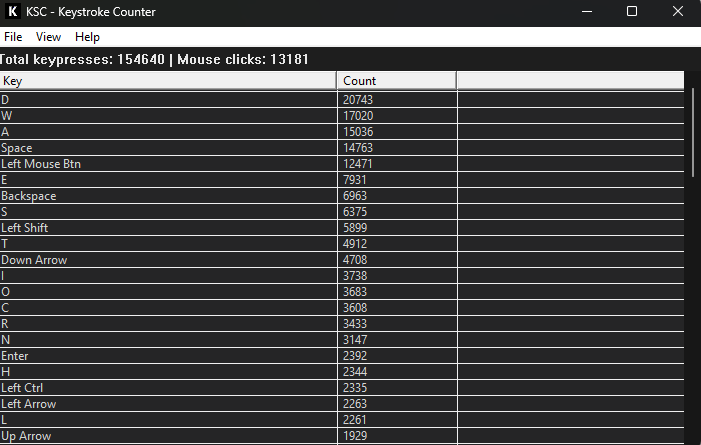
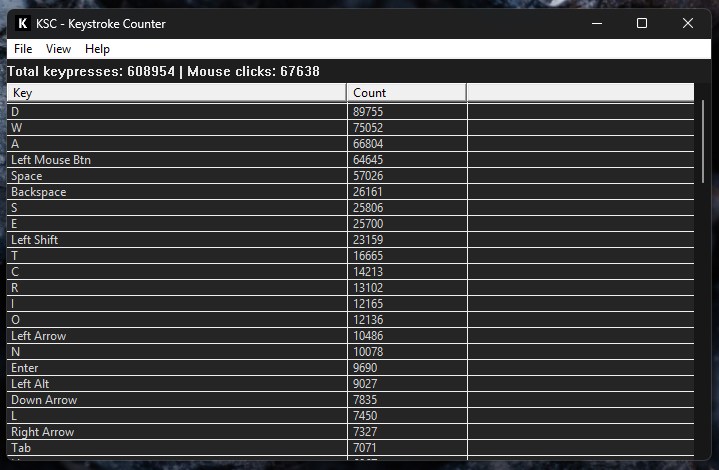
update screenshots + readme

diff --git a/README.md b/README.md
@@ -1,61 +1,71 @@
 # ⌨ ksc — Keystroke Counter
 
-**v1.1** — Lightweight Windows desktop app (~6.5k LOC) in modern C that counts keystrokes, tracks per-app usage, simulates keyboard input, syncs encrypted backups to Google Drive and SSH, and sends Telegram notifications.
+**v1.1** — A lightweight Windows desktop app in modern C (~6.5k LOC) that tracks every keystroke, maps keyboard heatmaps, simulates input, records to a keylogger, and syncs encrypted backups to Google Drive and SSH with Telegram notifications.
+
+<p align="center">
+  <img src="screenshots/main-window-dark.png" width="400" alt="Main Window Dark">
+  <img src="screenshots/main-window-light.png" width="400" alt="Main Window Light">
+</p>
+
+---
 
 ## 📸 Screenshots
 
 | 🌙 Dark Mode | |
 |---|---|
-| ![Main Window](screenshots/main-window-dark.png) | ![Cloud Backup](screenshots/cloud-backup-window-dark.png) |
-| ![Stats Window](screenshots/stats-window-dark.png) | ![Heatmap](screenshots/hetmap-window-dark.png) |
-| ![Mouse Clicker](screenshots/mouse-clicker-window-dark.png) | |
+| ![Heatmap](screenshots/keyboard-heatmap-dark.png) | ![Keyboard Sim](screenshots/keyboard-sim-dark.png) |
+| ![Mouse Clicker](screenshots/mouse-clicker-dark.png) | ![Stats](screenshots/stats-window-dark.png) |
+| ![Cloud & SSH Backup](screenshots/cloud-ssh-backup-dark.png) | |
 
-| ☀ Light Mode | |
-|---|---|
-| ![Mouse Clicker Light](screenshots/mouse-clicker-window-light.png) | ![Cloud Backup Light](screenshots/cloud-backup-window-light.png) |
+---
 
 ## ✨ Features
 
-### 📊 Core
-- **Keystroke & mouse tracking** — Low-level keyboard + mouse hooks capture every keypress and left/right click system-wide
-- **Per‑app tracking** — Records which app received each keypress via foreground window title
-- **Live totals** — Keyboard keypresses vs mouse clicks, separated and auto-updating
-- **Batch writes** — Ring buffer + writer threads flush DB in transactions
+### ⌨ Core Tracking
+- **Keystroke & mouse counting** — Low-level hooks (`WH_KEYBOARD_LL` + `WH_MOUSE_LL`) capture every keypress and left/right click system‑wide
+- **Per‑app tracking** — Records which foreground window received each event
+- **Live totals** — Keyboard keypresses vs mouse clicks, separated and auto‑updating
+- **Batch writes** — Ring buffer + writer threads flush in `BEGIN/COMMIT` transactions per ~100ms
 
 ### 🪟 Windows & Views
-- **Heatmap** — Full QWERTY layout + numpad + arrows colored by usage frequency (blue → red), tooltips on hover, app filter
-- **Statistics** — Date range pickers, app filter, keyboard/mouse totals, CSV export
-- **Keylogger** — Timestamped per‑key recording to a separate database; own viewer window
-- **Mouse clicker** — Min/sec/ms interval, random offset, left/right button, continuous/limited, system‑wide hotkeys
-- **Keyboard simulator** — Record key combos, replay with configurable interval, system‑wide start/stop hotkeys
-
-### 🔔 Notifications
-- **Telegram** — Bot token + group chat ID; sends sync status on success or failure only
-- **Test button** in settings for end‑to‑end verification
-
-### 🎨 UI
-- **Dark mode** — Full dark theme (title bar, scrollbar, menus, all child windows)
-- **System tray** — Minimize to tray; right‑click for show/heatmap/stats/clicker/keylogger/settings/quit
-- **Tray tooltip** — Today's keypress count
-- **Show/hide hotkey** — Configurable `Ctrl+Shift+K` to raise the window from anywhere
+- **Keyboard heatmap** — Full QWERTY + numpad + arrow keys colored by usage frequency (blue → red gradient), tooltips on hover, per‑app filter, double‑buffered rendering
+- **Statistics** — Custom date range pickers, app filter, keyboard/mouse separated totals, 10s auto‑refresh, CSV export
+- **Keylogger** — Timestamped per‑key recording to a separate `ksc_keylog.db`; dedicated viewer window with date + app filters
+- **Mouse clicker** — Configurable click interval (min/sec/ms), random offset, left/right button, continuous/limited mode, system‑wide start/stop hotkeys
+- **Keyboard simulator** — Record key combo sequences, replay with interval + random offset, system‑wide start/stop hotkeys
 
 ### ☁ Cloud Backup
-- **Google Drive** — OAuth2 login via browser, `ksc-backups` folder auto‑created in root
-- **SSH / SFTP** — Upload to `~/ksc-backups`; host/port/user/password with DPAPI‑encrypted storage
+- **Google Drive** — OAuth2 login via browser, `ksc-backups` folder auto‑created in Drive root, DPAPI‑encrypted token storage
+- **SSH / SFTP** — libssh2 with OpenSSL backend, uploads to `~/ksc-backups`, password encrypted with DPAPI
 - **Scheduler** — Off / 5 min / 15 min / 30 min / 1 h / 12 h / daily
-- **Multi‑target** — Backups go to Drive, SSH, or both; local files deleted only after all targets succeed
+- **Multi‑target** — Backups go to Drive, SSH, or both; local files deleted only after ALL targets succeed
+- **Safe online backup** — Uses `sqlite3_backup_init()` API (WAL‑safe) instead of raw file copy
+- **WAL mode** — SQLite journal mode enabled for concurrent reads during writes
+
+### 🔔 Notifications
+- **Telegram** — Bot token + group chat ID; sends status after each sync (success + failures, or failures only)
+- **Test message** button in Settings for end‑to‑end verification
+
+### 🎨 UI
+- **Dark mode** — Full dark theme: title bar, scrollbar, menus, list views, all child windows via `DwmSetWindowAttribute` + `AllowDarkModeForWindow`
+- **System tray** — Minimize to tray on close; today's count in tooltip; right‑click for quick access
+- **Show/hide hotkey** — Configurable `Ctrl+Shift+K` to raise the window from anywhere
+- **Start minimized** — Launch directly to system tray
+- **Start with Windows** — Registry Run key toggle
 
 ### 🛠 Data Management
-- **Backup & Restore** — Timestamped local `.db` backups; restore with one click
-- **CSV export** — All‑time or date‑filtered, per‑app breakdown
+- **Safe backup & restore** — Online `.db` backup with `sqlite3_backup_init()`; one‑click restore
+- **CSV export** — All‑time or date‑filtered, with per‑app breakdown
 - **Reset statistics** — Wipe counts, keep settings
-- **Single instance** — Mutex prevents duplicate processes
+- **Single instance** — Named mutex prevents duplicate processes
 
 ### 🔐 Build & Distribution
-- **Static linking** — Standalone `.exe`, zero runtime DLLs
-- **Self‑signed Authenticode** — One‑time trust command eliminates SmartScreen
-- **VERSIONINFO** — File properties show version, company, product
-- **Custom app icon** — Embedded `.ico` resource
+- **Static linking** — Standalone `.exe` (zero DLL dependencies)
+- **Self‑signed Authenticode** — Code‑signed with timestamp at build time; one‑time trust command eliminates SmartScreen
+- **VERSIONINFO** — File properties show version `1.1`, company `bbounce.org`
+- **5,200+ lines of hand‑written C11** — No frameworks, no external UI libs
+
+---
 
 ## ⚙ Settings
 
@@ -65,16 +75,18 @@
 | Start minimized to tray | OFF | Starts hidden |
 | Dark mode | OFF | Full dark theme |
 | Auto‑refresh stats | ON | Every 10 seconds |
-| Enable Keylogger | OFF | Records keystrokes to `ksc_keylog.db` |
+| Enable Keylogger | OFF | Records to `ksc_keylog.db` |
 | Reset All Statistics | — | Clears counts, keeps settings |
-| Delete Keylogger Logs | — | Deletes keylogger database |
-| Show KSC Shortcut | Ctrl+Shift+K | System‑wide hotkey |
-| Enable Telegram | OFF | Sends sync status to Telegram group |
-| Bot Token / Chat ID | — | Telegram bot credentials |
-| Notify mode | All | Success+failures or failures only |
-| Test Message | — | Sends a test message to the group |
+| Delete Keylogger Logs | — | Deletes keylogger database (disabled while keylogger on) |
+| Show KSC Shortcut | `Ctrl+Shift+K` | Configurable system‑wide |
+| Telegram Bot Token | — | From @BotFather |
+| Group Chat ID | — | Telegram group ID |
+| Enable Telegram | OFF | Sends sync status |
+| Notify mode | All | Success + failures, or failures only |
 
 All settings stored in SQLite.
+
+---
 
 ## 🚀 Quick Start
 
@@ -82,12 +94,19 @@ All settings stored in SQLite.
 .\build.ps1
 ```
 
-Requires CMake 3.15+, GCC (MinGW‑w64), and OpenSSL for SSH support. The script downloads SQLite, builds libssh2 (OpenSSL backend), compiles everything, signs the `.exe`, and prints the trust command.
+Requires **CMake 3.15+**, **GCC (MinGW‑w64)**, and **OpenSSL** (for SSH). The script:
+1. Downloads SQLite3 amalgamation + libssh2 source
+2. Builds libssh2 (OpenSSL backend)
+3. Generates the app icon
+4. Compiles everything with static linking
+5. Self‑signs the `.exe`
 
 To eliminate SmartScreen warnings (run once as Admin):
 ```powershell
 Import-Certificate -FilePath .\ksc.cer -CertStoreLocation Cert:\CurrentUser\TrustedPublisher
 ```
+
+---
 
 ## 🧱 Tech Stack
 
@@ -96,12 +115,14 @@ Import-Certificate -FilePath .\ksc.cer -CertStoreLocation Cert:\CurrentUser\Trus
 | Language | C11 |
 | Compiler | GCC (MinGW‑w64) |
 | Build | CMake |
-| Database | SQLite3 (amalgamation) |
+| Database | SQLite3 (amalgamation, WAL mode) |
 | HTTP | WinHTTP |
 | SSH | libssh2 + OpenSSL |
 | Crypto | DPAPI, CryptGenRandom, BCrypt |
-| UI | Win32 |
+| UI | Win32 API |
 | Linking | Fully static |
+
+---
 
 ## 🗺 Future Plans
 
@@ -109,6 +130,8 @@ Import-Certificate -FilePath .\ksc.cer -CertStoreLocation Cert:\CurrentUser\Trus
 - Portable mode (store DBs alongside `.exe`)
 - Typing speed display (live WPM)
 - Linux support (X11/Wayland)
+
+---
 
 ## 📄 License
 
